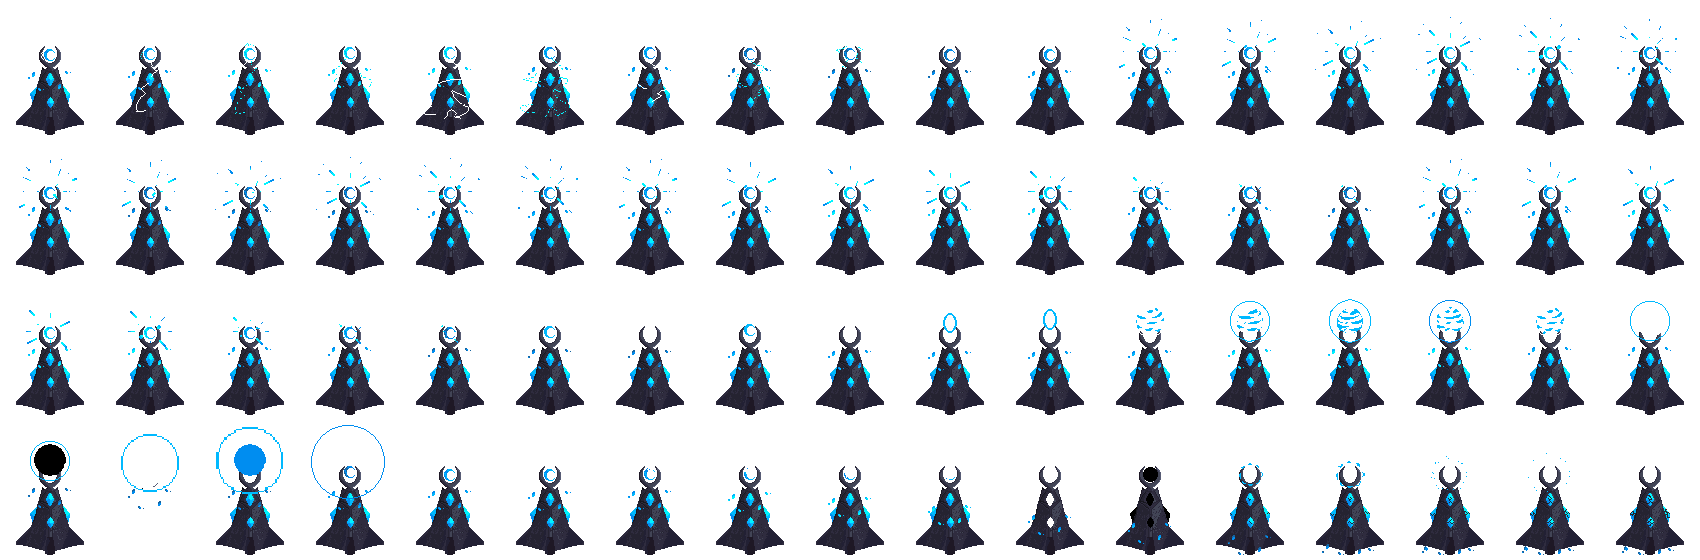
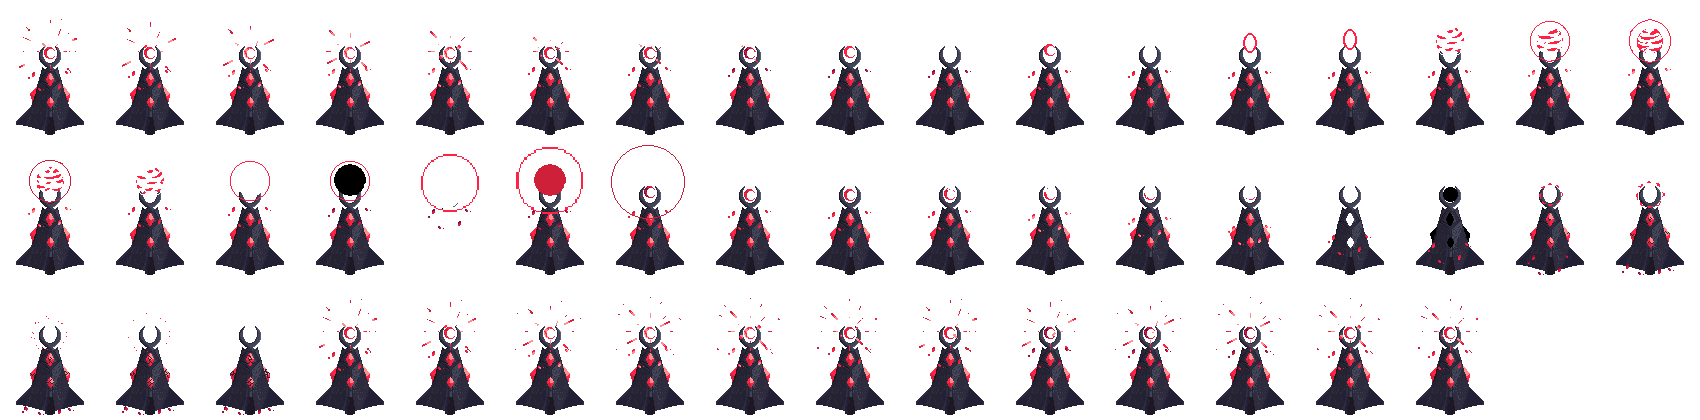
changed some code regarding atlas files and animations

Changed region(s): [[0.0, 0.0619, 0.9976, 0.9905]]

diff --git a/source/core/src/main/com/csse3200/game/entities/factories/TowerFactory.java b/source/core/src/main/com/csse3200/game/entities/factories/TowerFactory.java
@@ -85,9 +85,8 @@ public class TowerFactory {
     private static final String STUN_TOWER_DEATH_ANIM = "death";
     private static final float STUN_TOWER_DEATH_SPEED = 0.12f;
     private static final String FIREWORKS_TOWER_DEATH_ANIM ="DEATH";
-    private static final float FIREWORKS_TOWER_ANIM_SPEED = 0.4f;
-    private static final String FIREWORKS_TOWER_CHARGE_START_ANIM ="Charge";
-    private static final String FIREWORKS_TOWER_CHARGE_END_ANIM ="Charge_end";
+    private static final float FIREWORKS_TOWER_ANIM_ATTACK_SPEED = 0.12f;
+    private static final float FIREWORKS_TOWER_ANIM_SPEED = 0.06f;
     private static final String FIREWORKS_TOWER_IDLE_ANIM ="Idle";
     private static final String FIREWORKS_TOWER_ATTACK_ANIM ="Attack";
     private static final int INCOME_INTERVAL = 300;
@@ -299,7 +298,7 @@ public class TowerFactory {
                         ServiceLocator.getResourceService()
                                 .getAsset(STUN_TOWER_ATLAS, TextureAtlas.class));
         animator.addAnimation(STUN_TOWER_IDLE_ANIM, STUN_TOWER_IDLE_SPEED, Animation.PlayMode.LOOP);
-        animator.addAnimation(STUN_TOWER_ATTACK_ANIM, STUN_TOWER_ATTACK_SPEED, Animation.PlayMode.LOOP);
+        animator.addAnimation(STUN_TOWER_ATTACK_ANIM, STUN_TOWER_ATTACK_SPEED, Animation.PlayMode.NORMAL);
         animator.addAnimation(STUN_TOWER_DEATH_ANIM, STUN_TOWER_DEATH_SPEED, Animation.PlayMode.NORMAL);
 
         stunTower
@@ -330,11 +329,9 @@ public class TowerFactory {
                 new AnimationRenderComponent(
                         ServiceLocator.getResourceService()
                                 .getAsset(FIREWORKS_TOWER_ATLAS, TextureAtlas.class));
-        animator.addAnimation(FIREWORKS_TOWER_ATTACK_ANIM, FIREWORKS_TOWER_ANIM_SPEED, Animation.PlayMode.NORMAL);
+        animator.addAnimation(FIREWORKS_TOWER_ATTACK_ANIM, FIREWORKS_TOWER_ANIM_ATTACK_SPEED, Animation.PlayMode.NORMAL);
         animator.addAnimation(FIREWORKS_TOWER_IDLE_ANIM, FIREWORKS_TOWER_ANIM_SPEED, Animation.PlayMode.LOOP);
         animator.addAnimation(FIREWORKS_TOWER_DEATH_ANIM, FIREWORKS_TOWER_ANIM_SPEED, Animation.PlayMode.NORMAL);
-        animator.addAnimation(FIREWORKS_TOWER_CHARGE_END_ANIM, FIREWORKS_TOWER_ANIM_SPEED, Animation.PlayMode.LOOP);
-        animator.addAnimation(FIREWORKS_TOWER_CHARGE_START_ANIM, FIREWORKS_TOWER_ANIM_SPEED, Animation.PlayMode.LOOP);
 
         fireworksTower
                 .addComponent(new CombatStatsComponent(config.health, config.baseAttack))

diff --git a/source/core/src/main/com/csse3200/game/components/tower/FireworksTowerAnimationController.java b/source/core/src/main/com/csse3200/game/components/tower/FireworksTowerAnimationController.java
@@ -19,27 +19,11 @@ public class FireworksTowerAnimationController extends Component {
         super.create();
         animator = this.entity.getComponent(AnimationRenderComponent.class);
         entity.getEvents().addListener("idleStart", this::animateDefault);
-        entity.getEvents().addListener("chargeStart", this::animateChargeStart);
-        entity.getEvents().addListener("chargeEnd", this::animateChargeEnd);
         entity.getEvents().addListener("attackStart", this::animateAttack);
         entity.getEvents().addListener("deathStart", this::animateDeath);
 
     }
 
-    /**
-     * the towers starts charging to shoot a projectile
-     */
-    void animateChargeStart() {
-        animator.startAnimation("Charge");
-    }
-
-    /**
-     * the towers starts charging to shoot a projectile and after that this
-     * animation is the wind down of that charging up of the tower
-     */
-    void animateChargeEnd() {
-        animator.startAnimation("Charge_end");
-    }
 
     /**
      * THIS IS TO SHOW THE TOWER DEATH IN THIS SITUATION THE TOWER GETS BLASTED

diff --git a/source/core/src/main/com/csse3200/game/components/tasks/FireworksTowerCombatTask.java b/source/core/src/main/com/csse3200/game/components/tasks/FireworksTowerCombatTask.java
@@ -26,9 +26,9 @@ public class FireworksTowerCombatTask extends DefaultTask implements PriorityTas
     // The type of targets this tower will detect
     private static final short TARGET = PhysicsLayer.NPC;
     //Following constants are names of events that will be triggered in the state machine
-    public static final String IDLE = "startIdle";
-    public static final String ATTACK = "startAttack";
-    public static final String DEATH = "startDeath";
+    public static final String IDLE = "idleStart";
+    public static final String ATTACK = "attackStart";
+    public static final String DEATH = "deathStart";
 
 
     // Class attributes
@@ -42,7 +42,7 @@ public class FireworksTowerCombatTask extends DefaultTask implements PriorityTas
     private final RaycastHit hit = new RaycastHit();
 
     public enum STATE {
-        IDLE, ATTACK, DEATH, CHARGE_START, CHARGE_END
+        IDLE, ATTACK, DEATH
     }
     public STATE towerState = STATE.IDLE;
 
